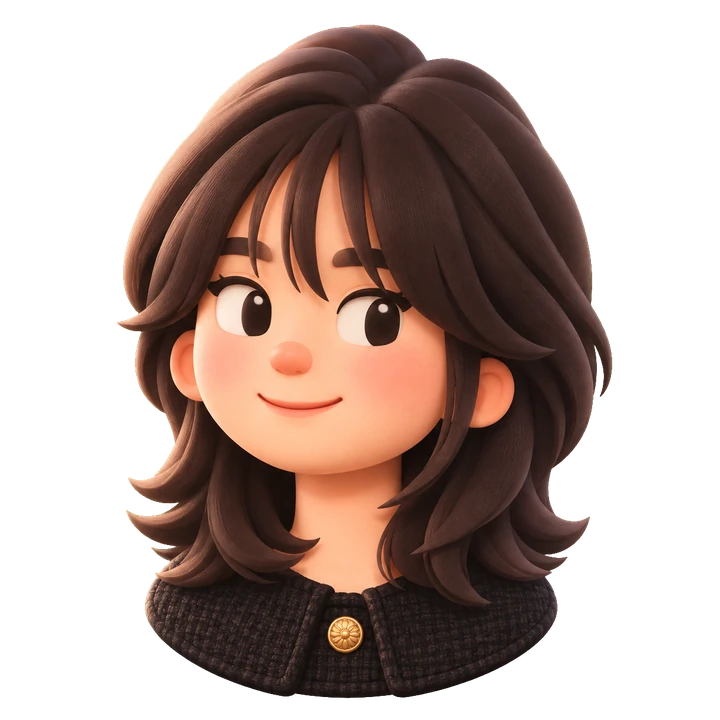
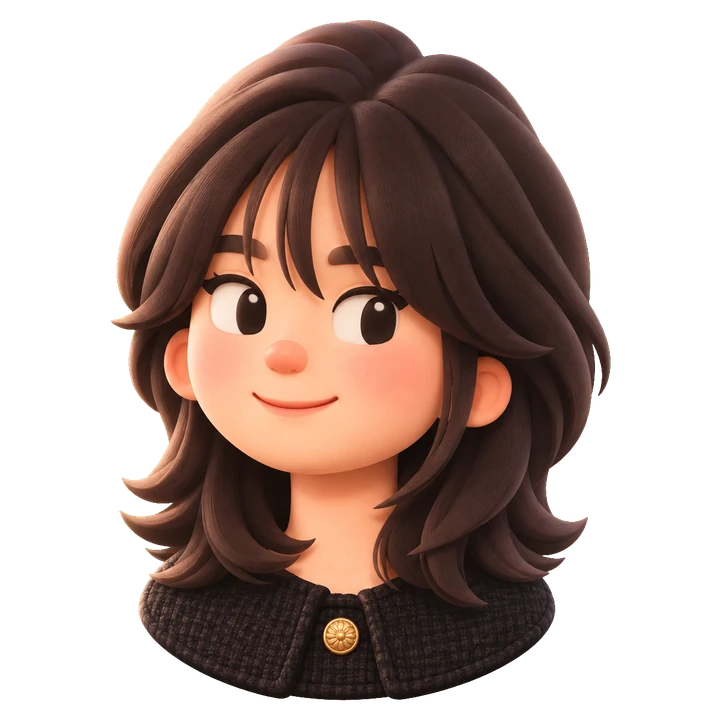
fix(hero): portrait always front-on; collar fills the bottom of the circle
The owner wants her face to stay front-on: only the cat follows the pointer.
The left/right views and their switching are removed; one image remains.

The collar's rounded hem left a thin crescent of blue at the bottom of the
circle. The bust is now placed from measurements of the cut-out (collar centre
48.1%, hem 97.1%) so the collar covers the whole lower arc, checked point by
point; the circle clip trims the collar along its edge, and the gold button now
shows. Verified at desktop and phone sizes in both themes: no blue pixels below
the collar.

diff --git a/src/components/Portrait3D.tsx b/src/components/Portrait3D.tsx
@@ -1,44 +1,22 @@
 import { forwardRef, type CSSProperties } from 'react'
 
 /**
- * Hien as a 3D art-toy bust. Three renders of the same figure (made with an image model from her own photos, then cut
- * out of their green backdrop by scripts/portrait_cutout.py): facing the visitor, looking left, looking right. Like
- * the cats, she watches your pointer: the view follows it, with a soft cross-fade. With reduced motion she stays front.
+ * Hien as a 3D art-toy bust, always facing the visitor (the cat is the one who moves). The render was made with an
+ * image model from her own photos and cut out of its green backdrop by scripts/portrait_cutout.py.
  * No photograph is shipped.
  */
 const BASE = import.meta.env.BASE_URL
-const VIEWS = ['left', 'front', 'right'] as const
-type View = (typeof VIEWS)[number]
-
-/** Which way to look for a pointer at x (-1 … 1, relative to the portrait) */
-export const viewFor = (x: number): View => (x < -0.35 ? 'left' : x > 0.35 ? 'right' : 'front')
 
 interface Props {
-  /** Where the pointer is, each axis -1 … 1 */
-  gaze?: { x: number; y: number }
-  /** Follow the pointer. Off for reduced motion. */
-  alive?: boolean
   className?: string
   style?: CSSProperties
   label?: string
 }
 
-export const Portrait3D = forwardRef<HTMLDivElement, Props>(function Portrait3D({ gaze = { x: 0, y: 0 }, alive = true, className = '', style, label }, ref) {
-  const view: View = alive ? viewFor(gaze.x) : 'front'
+export const Portrait3D = forwardRef<HTMLDivElement, Props>(function Portrait3D({ className = '', style, label }, ref) {
   return (
     <div ref={ref} className={`portrait portrait--3d ${className}`} style={style} role={label ? 'img' : undefined} aria-label={label}>
-      {VIEWS.map((v) => (
-        <img
-          key={v}
-          className={`portrait3d__img ${v === 'front' ? '' : 'portrait3d__alt'} ${v === view ? 'is-on' : ''}`}
-          src={`${BASE}art/hien-${v}.webp`}
-          width="720"
-          height="720"
-          alt=""
-          decoding="async"
-          fetchPriority={v === 'front' ? 'high' : 'low'}
-        />
-      ))}
+      <img className="portrait3d__img" src={`${BASE}art/hien-front.webp`} width="720" height="720" alt="" decoding="async" fetchPriority="high" />
     </div>
   )
 })

diff --git a/src/components/Hero.tsx b/src/components/Hero.tsx
@@ -9,7 +9,7 @@ import { TortieCat, type CatMood } from './TortieCat'
 import './Hero.css'
 
 /**
- * Hello. On the left, Hien (a 3D portrait that looks toward your pointer) in the blue circle with her cat in front: the tortoiseshell by day, the
+ * Hello. On the left, Hien (a 3D portrait, always facing you) in the blue circle with her cat in front: the tortoiseshell by day, the
  * black-and-white cat by night. On the right, the words. Both of them watch your pointer.
  */
 export function Hero() {
@@ -18,10 +18,8 @@ export function Hero() {
   const { coat } = useTheme()
   const sectionRef = useRef<HTMLElement>(null)
   const catRef = useRef<HTMLDivElement>(null)
-  const meRef = useRef<HTMLDivElement>(null)
   const onScreen = useOnScreen(sectionRef)
   const gaze = useGaze(catRef, { active: onScreen, reduced })
-  const look = useGaze(meRef, { active: onScreen, reduced, reach: 700 })
   const curious = useExcitement(onScreen, reduced)
   const [mood, setMood] = useState<CatMood>('idle')
 
@@ -49,7 +47,7 @@ export function Hero() {
             <circle cx="50" cy="50" r="46.5" fill="none" className="hero__disc-ticks" strokeWidth=".6" strokeDasharray=".4 2.04" />
           </svg>
           <div className="hero__me" style={{ clipPath: 'url(#hero-bust)' }}>
-            <Portrait3D ref={meRef} gaze={look} alive={!reduced} label={t.portraitLabel} />
+            <Portrait3D label={t.portraitLabel} />
           </div>
           <button type="button" className="hero__cat" onClick={hello} aria-label={coat === 'tuxie' ? t.catLabelNight : t.catLabel}>
             <TortieCat ref={catRef} gaze={gaze} curious={curious} mood={mood} coat={coat} alive={!reduced} />

diff --git a/src/components/Hero.css b/src/components/Hero.css
@@ -94,7 +94,9 @@
   stroke: var(--cream);
   stroke-opacity: 0.35;
 }
-/* The bust: the render's collar rests on the circle's lower edge, the hair rises above its middle. */
+/* The bust: sized and lowered so the collar covers the whole bottom of the circle (no sliver of blue beneath it);
+   the clip trims the collar along the circle's edge, while the hair may rise above the middle. Measured from the
+   cut-out in scripts/portrait_cutout.py: collar centre at 48.1% of the image, bottom at 97.1%. */
 .hero__me {
   position: absolute;
   inset: 0;
@@ -102,24 +104,15 @@
 }
 .portrait--3d {
   position: absolute;
-  left: -2%;
-  bottom: -1%;
+  left: -0.05%;
+  top: 2.5%;
   width: 104%;
   aspect-ratio: 1;
 }
 .portrait3d__img {
-  position: absolute;
-  inset: 0;
+  display: block;
   width: 100%;
   height: 100%;
-}
-/* the side views sit on top of the front one and fade in when the pointer is on their side */
-.portrait3d__alt {
-  opacity: 0;
-  transition: opacity 260ms var(--ease-out);
-}
-.portrait3d__alt.is-on {
-  opacity: 1;
 }
 .hero__cat {
   position: absolute;
@@ -181,7 +174,4 @@
   }
 }
 @media (prefers-reduced-motion: reduce) {
-  .portrait3d__alt {
-    transition: none;
-  }
 }

diff --git a/scripts/portrait_cutout.py b/scripts/portrait_cutout.py
@@ -4,20 +4,17 @@
     python scripts/portrait_cutout.py --src D:/hienta16-review/portrait-sources
     python scripts/portrait_cutout.py --src <folder> --check     # also save checker previews next to the sources
 
-The portrait is a 3D art-toy render made with an image model from the owner's own photos (front, looking left,
-looking right), each on a flat green backdrop. The source images and photos never enter this repository; only the
-cut-outs below do:
+The portrait is a 3D art-toy render made with an image model from the owner's own photos, on a flat green
+backdrop. The source images and photos never enter this repository; only the cut-out does:
 
-    public/art/hien-front.webp   default: facing the visitor, glancing toward the cat
-    public/art/hien-left.webp    when the pointer is on the left
-    public/art/hien-right.webp   when the pointer is on the right
+    public/art/hien-front.webp   facing the visitor (the owner wants her face to stay front-on; only the cat moves)
 
 What the script does, per image:
 1. measures the backdrop from the border (median colour), so a slightly different green per render is fine;
 2. keys by "green excess" (G above max(R, B)), which the brown hair, warm skin, black tweed and gold never have,
    with a soft ramp so hair tips get partial alpha;
 3. un-mixes the backdrop from edge pixels and removes green spill (G is capped at max(R, B));
-4. crops all views to one shared square, so they line up when the website switches between them.
+4. crops to a square around the figure (shared across views, if more are ever added).
 Requires numpy and Pillow (a dev tool; it never runs in CI or in the browser).
 """
 
@@ -31,7 +28,7 @@ from PIL import Image
 
 SITE = Path(__file__).resolve().parent.parent
 OUT = SITE / "public" / "art"
-VIEWS = {"front": "front.png", "left": "view-a.png", "right": "view-b.png"}
+VIEWS = {"front": "front.png"}
 SIZE = 720  # px, square; shown at up to ~460 css px, so this covers 1.5x screens
 EXCESS_BG, EXCESS_FG = 70.0, 22.0  # green excess: at or above BG is backdrop, at or below FG is subject
 
@@ -85,7 +82,7 @@ def checker(img: Image.Image) -> Image.Image:
 
 def main(argv=None):
     ap = argparse.ArgumentParser(description=__doc__.splitlines()[0])
-    ap.add_argument("--src", type=Path, required=True, help="folder with front.png, view-a.png (left), view-b.png (right)")
+    ap.add_argument("--src", type=Path, required=True, help="folder with front.png")
     ap.add_argument("--out", type=Path, default=OUT)
     ap.add_argument("--check", action="store_true", help="save checker previews into the source folder")
     args = ap.parse_args(argv)
